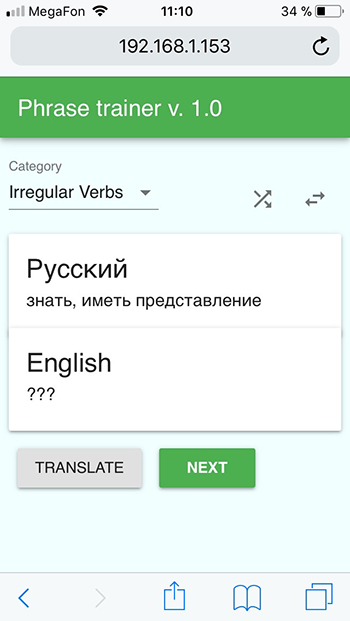
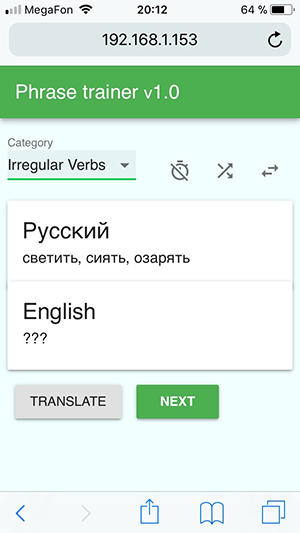
Added timer for auto slide show

diff --git a/src/components/PhraseTrainer.js b/src/components/PhraseTrainer.js
@@ -8,9 +8,12 @@ import { withStyles } from 'material-ui/styles';
 import Grid from 'material-ui/Grid';
 import Paper from 'material-ui/Paper';
 import Typography from 'material-ui/Typography';
+import Badge from 'material-ui/Badge';
 import SwapHorizIcon from 'material-ui-icons/SwapHoriz';
 import ShuffleIcon from 'material-ui-icons/Shuffle';
 import RepeatIcon from 'material-ui-icons/Repeat';
+import TimerIcon from 'material-ui-icons/Timer';
+import TimerOffIcon from 'material-ui-icons/TimerOff';
 import IconButton from 'material-ui/IconButton';
 
 import CategorySelect from './CategorySelect';
@@ -41,19 +44,28 @@ const styles = theme => ({
     },
     pullRight: {
         float: 'right'
-    }
+    },
+    badge: {
+        margin: `0 ${theme.spacing.unit * 2}px`,
+    },
 });
+
+const TIMER_SEC = 10
 
 class PhraseTrainerGrid extends React.Component {
 
     constructor(props) {
         super(props)
 
+        this.timer = 0
+
         this.state = {
             started: true,
             selectedCategoryId: 0,
             shuffle: true,
             translationDirection: 'rus-eng',
+            timer: false,
+            timerSeconds: TIMER_SEC,
             translationShow: false,
             phrase: {
                 id: 0,
@@ -126,6 +138,45 @@ class PhraseTrainerGrid extends React.Component {
         })
     }
 
+    startTimer() {
+        if (this.timer !== 0) {
+            return
+        }
+
+        var self = this;
+        this.timer = setInterval(() => {
+            let seconds = this.state.timerSeconds - 1;
+            this.setState({
+                timerSeconds: seconds >= 0 ? seconds : 0
+            });
+            if (seconds === 0) {
+                self.nextPrase();
+            } else if (seconds === 4) {
+                self.showTranslation()
+            }
+        }, 1000);
+    }
+
+    changeTimer() {
+        this.setState({
+            timer: ! this.state.timer,
+        }, () => {
+            if (this.state.timer) {
+                this.startTimer()
+            } else {
+                this.clearTimer()
+            }
+        })
+    }
+
+    clearTimer() {
+        clearInterval(this.timer)
+        this.timer = 0
+        this.setState({
+            timerSeconds: TIMER_SEC,
+        })
+    }
+
     isEngToRus() {
         return (this.state.translationDirection == 'eng-rus')
     }
@@ -144,9 +195,9 @@ class PhraseTrainerGrid extends React.Component {
         } })
             .then(function (response) {
                 self.setState((oldState, props) => {
-                    //console.log(oldState);
                     return {
                         phrase: response.data,
+                        timerSeconds: TIMER_SEC,
                         block: {
                             left: {
                                 title: oldState.block.left.title,
@@ -159,6 +210,7 @@ class PhraseTrainerGrid extends React.Component {
                         }
                     };
                 });
+
             })
             .catch(function (error) {
                 console.log(error);
@@ -197,6 +249,23 @@ class PhraseTrainerGrid extends React.Component {
                                 </div>
                                 <div className={classes.pullRight }>
                                     <div className={classes.iconToolbar}>
+                                        <IconButton
+                                            color="default"
+                                            title={this.state.timer ? "Timer On" : "Timer Off"}
+                                            onClick={() => this.changeTimer()}
+                                        >
+                                            {this.state.timer
+                                                ? <Badge
+                                                    className={classes.badge}
+                                                    badgeContent={this.state.timer ? <span style={{'color':'white'}}>{this.state.timerSeconds}</span> : ''}
+                                                    color="primary"
+                                                >
+                                                    <TimerIcon />
+                                                </Badge>
+                                                : <TimerOffIcon />}
+
+
+                                        </IconButton>
                                         <IconButton
                                             color="default"
                                             title={this.state.shuffle ? "Shuffle all" : "Repeat"}

diff --git a/src/layout/Header.js b/src/layout/Header.js
@@ -25,7 +25,7 @@ function ButtonAppBar(props) {
                 <Toolbar>
                     <div className={classes.wrapper}>
                         <Typography type="title" color="inherit" className={classes.flex}>
-                            Phrase trainer v. 1.0
+                            Phrase trainer <small>v</small>1.1
                         </Typography>
                     </div>
                 </Toolbar>
